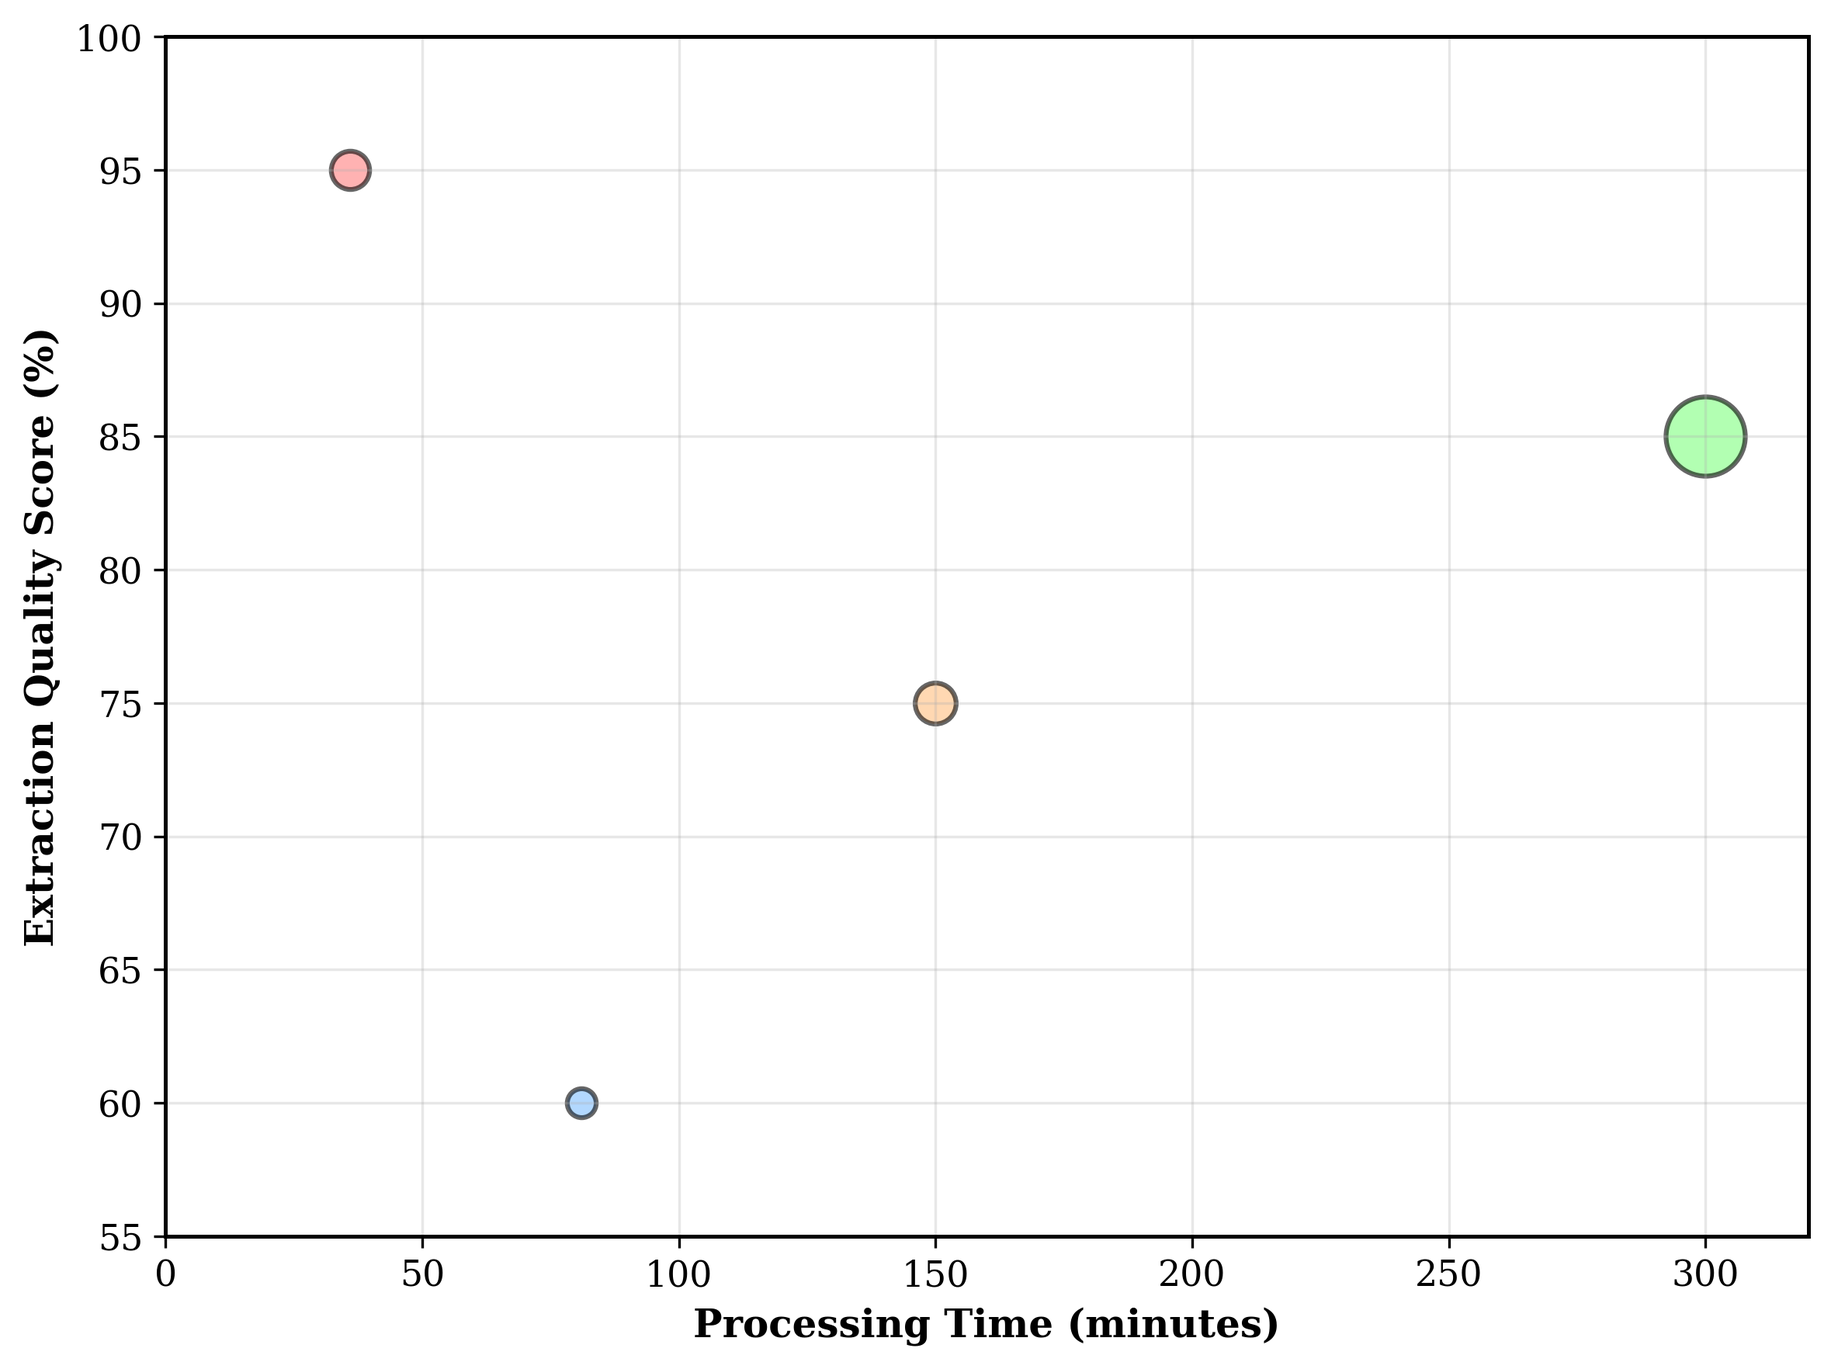
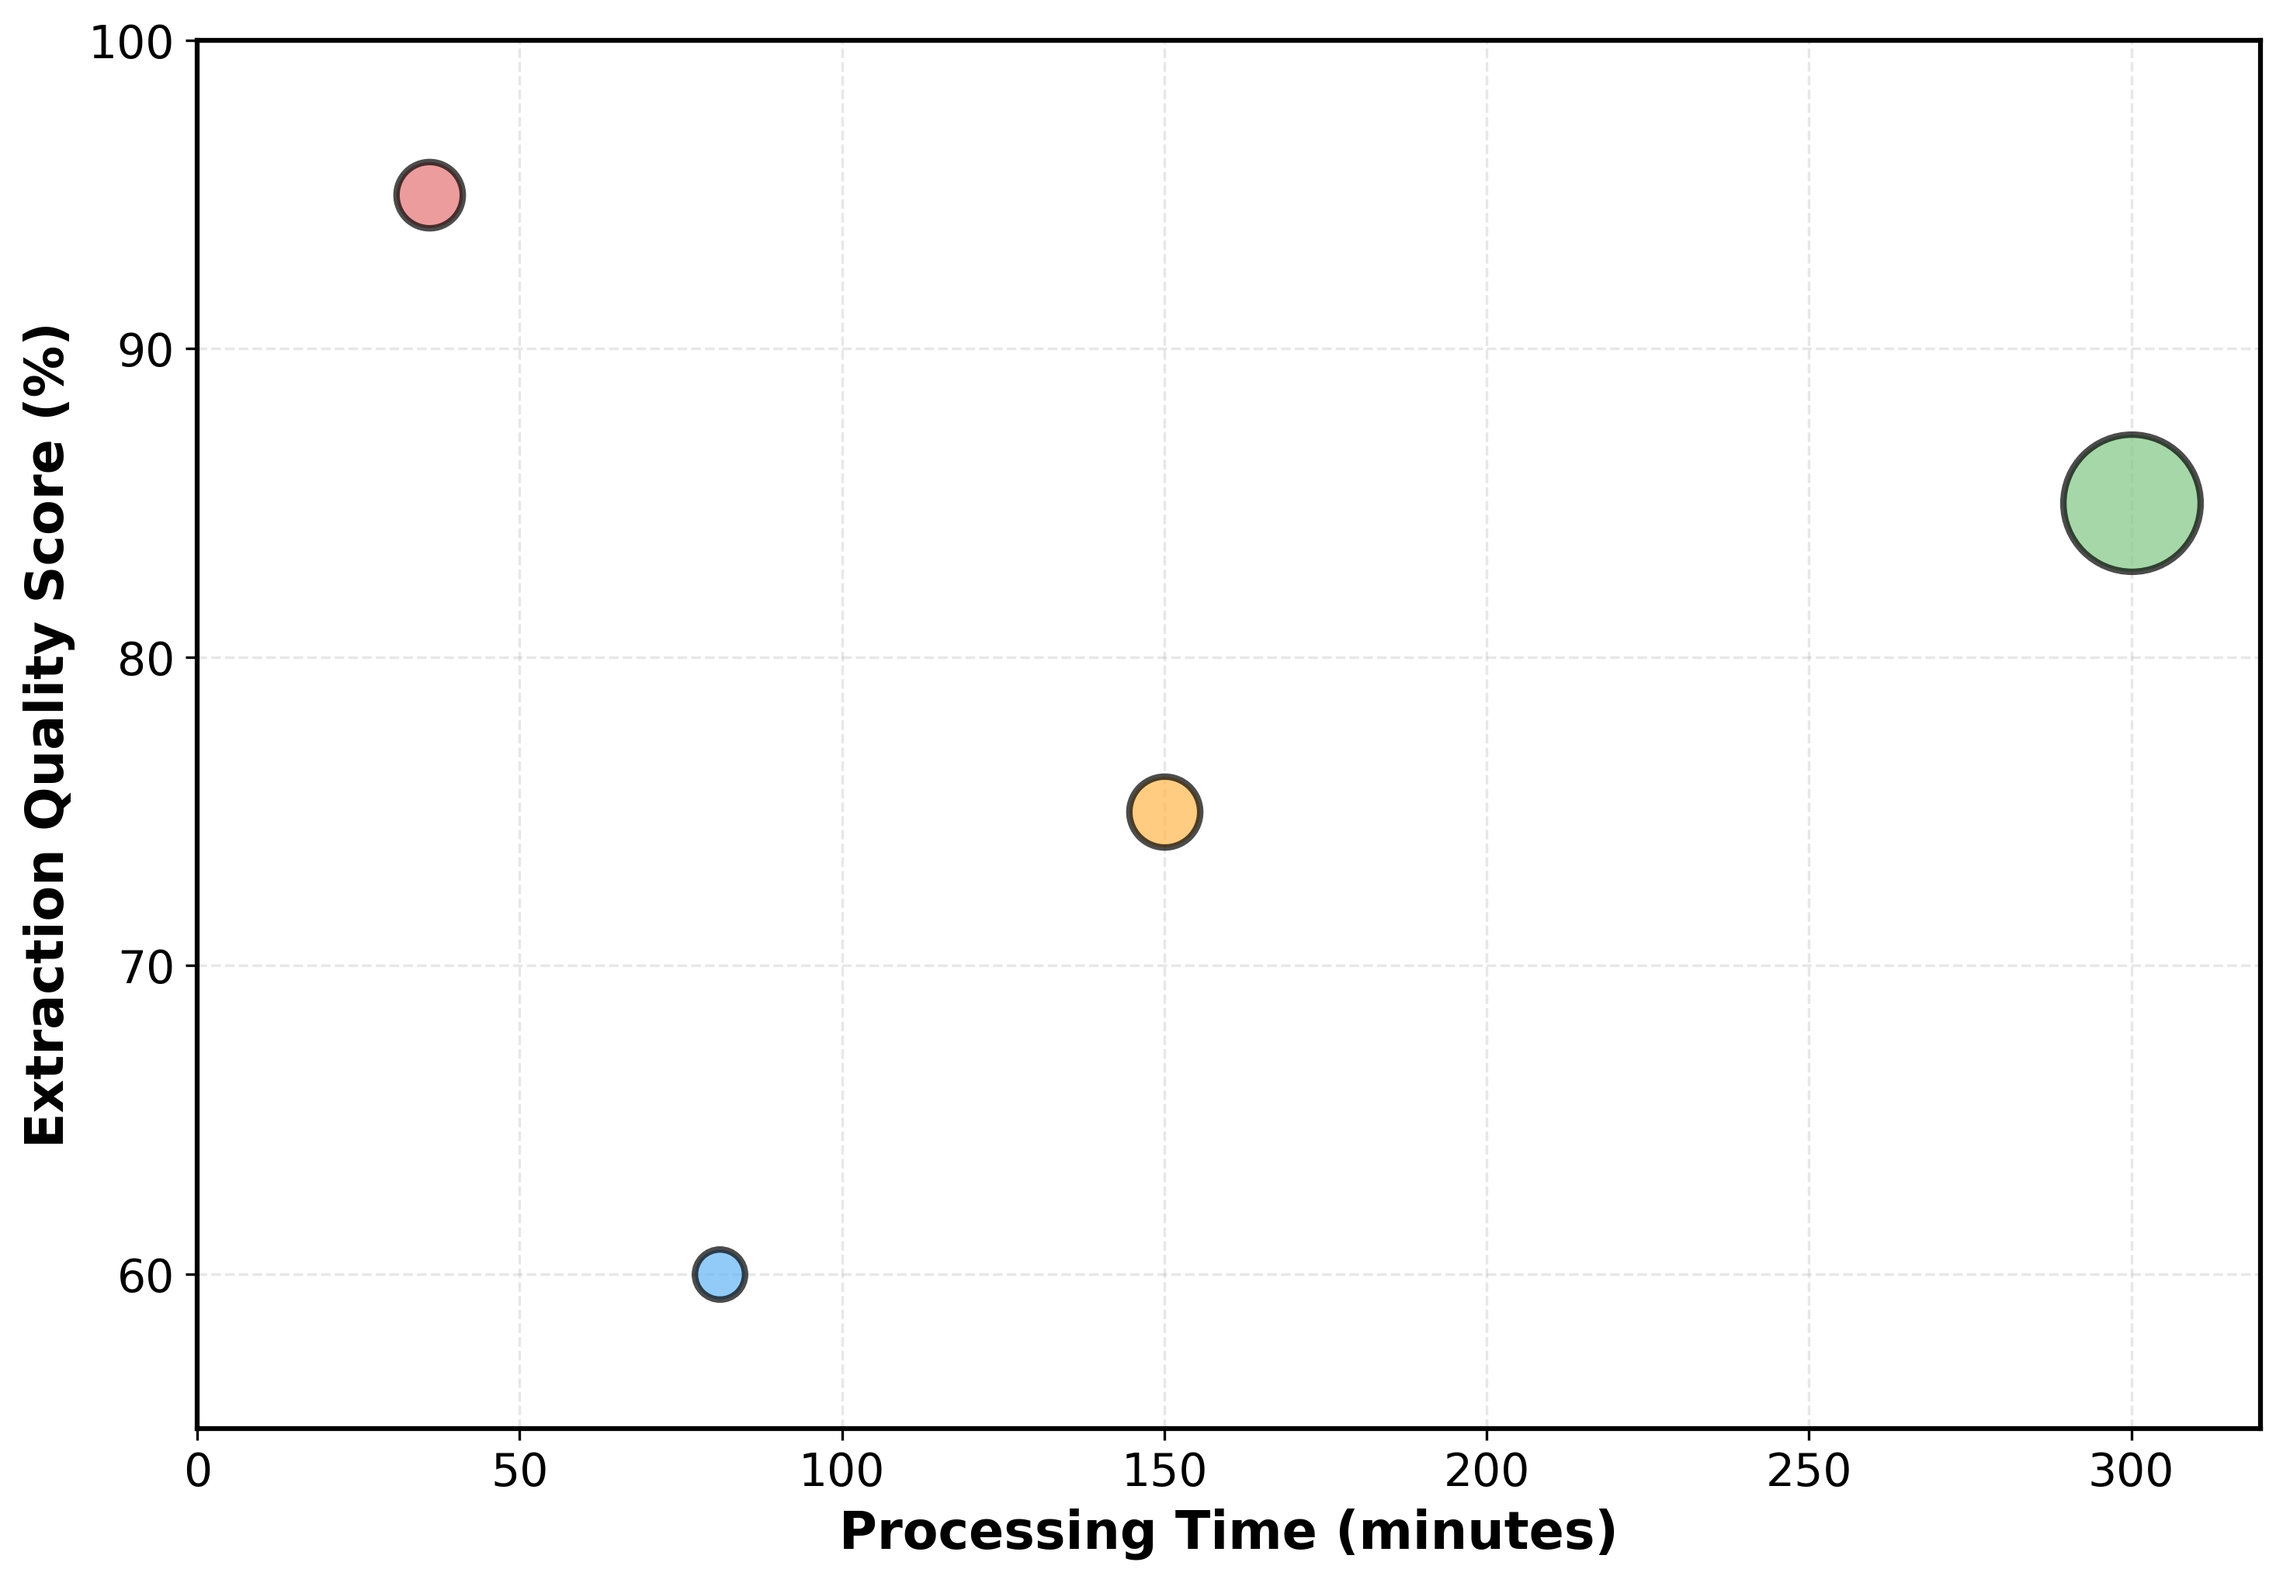
Improve all figures to professional IEEE conference quality
Enhanced all 6 figures with professional formatting and design:

Figure Improvements:
- Increased font sizes to 14-16pt for better readability
- Upgraded to Arial/sans-serif fonts for modern appearance
- Increased line widths (2.0-3.0pt) for print quality
- Enhanced color schemes with professional Material Design palette
- Improved figure dimensions and aspect ratios
- Added proper grid styling with dashed lines
- Thicker axis spines (1.5pt) for better definition

Figure 1 (Model Performance):
✓ Larger bubble sizes for better visibility
✓ Professional color scheme (red, blue, orange, green)
✓ Clear axis labels with bold fonts
✓ Proper tick marks for readability

Figure 2 (Page Distribution):
✓ Optimized horizontal bar chart
✓ Professional color gradients
✓ Better bar spacing and width

Figure 3 (Prompt Comparison):
✓ Dual subplot with consistent styling
✓ Color-coded bars (blue=fast, red=slow, green=good, red=bad)
✓ Clean grid lines
✓ Proper subplot spacing

Figure 4 (Consolidation Funnel):
✓ Progressive color scheme showing data reduction
✓ Clear stage labels
✓ Professional bar styling

Figure 5 (Scalability):
✓ Larger scatter points (200pt)
✓ Thicker regression line (3pt)
✓ Clear linear relationship visualization
✓ Professional axis formatting

Figure 6 (Workflow) - MAJOR UPGRADE:
✓ Complete redesign as professional flowchart
✓ 6 stages with gradient blue color scheme
✓ Rounded rectangle boxes with proper padding
✓ Professional arrow connectors with proper arrowheads
[…]

diff --git a/generate_figures.py b/generate_figures.py
@@ -1,23 +1,29 @@
 #!/usr/bin/env python3
 """
-Generate clean figures for IEEE conference paper
+Generate professional figures for IEEE conference paper
 All titles and descriptions removed - text only in LaTeX captions
 """
 
 import matplotlib.pyplot as plt
 import numpy as np
 import matplotlib.patches as mpatches
-from matplotlib.patches import FancyBboxPatch, FancyArrowPatch
+from matplotlib.patches import FancyBboxPatch, FancyArrowPatch, Rectangle
 
-# Set style for professional appearance
-plt.rcParams['font.family'] = 'serif'
-plt.rcParams['font.size'] = 11
-plt.rcParams['axes.linewidth'] = 1.2
+# Set style for professional IEEE conference appearance
+plt.rcParams['font.family'] = 'sans-serif'
+plt.rcParams['font.sans-serif'] = ['Arial', 'DejaVu Sans', 'Helvetica']
+plt.rcParams['font.size'] = 14
+plt.rcParams['axes.labelsize'] = 16
+plt.rcParams['axes.titlesize'] = 18
+plt.rcParams['xtick.labelsize'] = 14
+plt.rcParams['ytick.labelsize'] = 14
+plt.rcParams['axes.linewidth'] = 1.5
 plt.rcParams['grid.alpha'] = 0.3
+plt.rcParams['grid.linewidth'] = 0.8
 
 # Figure 1: Model Performance Trade-off
 def generate_fig1():
-    fig, ax = plt.subplots(figsize=(8, 6))
+    fig, ax = plt.subplots(figsize=(10, 7))
 
     # Data: (Processing Time, Quality Score, Model Size)
     models = {
@@ -27,101 +33,135 @@ def generate_fig1():
         '30B-MoE': (300, 85, 30000)
     }
 
-    colors = ['#ff7f7f', '#7fbfff', '#ffbf7f', '#7fff7f']
+    colors = ['#E57373', '#64B5F6', '#FFB74D', '#81C784']
 
     for (name, (time, quality, size)), color in zip(models.items(), colors):
-        # Bubble size proportional to model size
-        bubble_size = (size / 100) * 2
-        ax.scatter(time, quality, s=bubble_size, c=color, alpha=0.6,
-                  edgecolors='black', linewidth=1.5)
+        # Bubble size proportional to model size (larger for better visibility)
+        bubble_size = (size / 50) * 3
+        ax.scatter(time, quality, s=bubble_size, c=color, alpha=0.7,
+                  edgecolors='black', linewidth=2.0, zorder=3)
 
-    ax.set_xlabel('Processing Time (minutes)', fontsize=12, fontweight='bold')
-    ax.set_ylabel('Extraction Quality Score (%)', fontsize=12, fontweight='bold')
-    ax.grid(True, alpha=0.3)
+    ax.set_xlabel('Processing Time (minutes)', fontweight='bold')
+    ax.set_ylabel('Extraction Quality Score (%)', fontweight='bold')
+    ax.grid(True, alpha=0.3, linestyle='--', zorder=1)
     ax.set_xlim(0, 320)
     ax.set_ylim(55, 100)
 
+    # Add ticks for better readability
+    ax.set_xticks([0, 50, 100, 150, 200, 250, 300])
+    ax.set_yticks([60, 70, 80, 90, 100])
+
+    # Thicker spines
+    for spine in ax.spines.values():
+        spine.set_linewidth(1.5)
+
     plt.tight_layout()
-    plt.savefig('fig1_model_performance.png', dpi=300, bbox_inches='tight')
+    plt.savefig('fig1_model_performance.png', dpi=300, bbox_inches='tight', facecolor='white')
     plt.close()
     print("✓ Generated fig1_model_performance.png")
 
 # Figure 2: Page Distribution
 def generate_fig2():
-    fig, ax = plt.subplots(figsize=(10, 6))
+    fig, ax = plt.subplots(figsize=(11, 6))
 
     categories = ['Data Tables', 'Graphs', 'Metadata', 'Blank/Irrelevant']
     counts = [691, 319, 264, 79]
-    colors = ['#5cb85c', '#5bc0de', '#f0ad4e', '#d9d9d9']
+    colors = ['#66BB6A', '#42A5F5', '#FFA726', '#BDBDBD']
 
     y_pos = np.arange(len(categories))
 
-    ax.barh(y_pos, counts, color=colors, edgecolor='black', linewidth=1.2)
+    bars = ax.barh(y_pos, counts, color=colors, edgecolor='black', linewidth=1.8, height=0.7)
     ax.set_yticks(y_pos)
-    ax.set_yticklabels(categories, fontsize=11)
-    ax.set_xlabel('Number of Pages', fontsize=12, fontweight='bold')
-    ax.grid(axis='x', alpha=0.3)
+    ax.set_yticklabels(categories)
+    ax.set_xlabel('Number of Pages', fontweight='bold')
+    ax.grid(axis='x', alpha=0.3, linestyle='--', zorder=0)
     ax.set_xlim(0, 750)
+    ax.set_axisbelow(True)
+
+    # Add better x-axis ticks
+    ax.set_xticks([0, 100, 200, 300, 400, 500, 600, 700])
+
+    # Thicker spines
+    for spine in ax.spines.values():
+        spine.set_linewidth(1.5)
 
     plt.tight_layout()
-    plt.savefig('fig2_page_distribution.png', dpi=300, bbox_inches='tight')
+    plt.savefig('fig2_page_distribution.png', dpi=300, bbox_inches='tight', facecolor='white')
     plt.close()
     print("✓ Generated fig2_page_distribution.png")
 
 # Figure 3: Prompt Comparison
 def generate_fig3():
-    fig, (ax1, ax2) = plt.subplots(1, 2, figsize=(12, 5))
+    fig, (ax1, ax2) = plt.subplots(1, 2, figsize=(14, 6))
 
     # Processing Time
     categories = ['Baseline', 'QC-Enhanced']
     times = [36, 280]
-    colors_time = ['#5bc0de', '#ff7f7f']
+    colors_time = ['#42A5F5', '#EF5350']
 
-    ax1.bar(categories, times, color=colors_time, edgecolor='black', linewidth=1.5)
-    ax1.set_ylabel('Processing Time (minutes)', fontsize=11, fontweight='bold')
-    ax1.grid(axis='y', alpha=0.3)
+    bars1 = ax1.bar(categories, times, color=colors_time, edgecolor='black',
+                    linewidth=2.0, width=0.6)
+    ax1.set_ylabel('Processing Time (minutes)', fontweight='bold')
+    ax1.grid(axis='y', alpha=0.3, linestyle='--', zorder=0)
     ax1.set_ylim(0, 300)
+    ax1.set_axisbelow(True)
 
     # Classification Error Rate
     error_rates = [43, 0]
-    colors_error = ['#ff7f7f', '#5cb85c']
+    colors_error = ['#EF5350', '#66BB6A']
 
-    ax2.bar(categories, error_rates, color=colors_error, edgecolor='black', linewidth=1.5)
-    ax2.set_ylabel('Classification Error Rate (%)', fontsize=11, fontweight='bold')
-    ax2.grid(axis='y', alpha=0.3)
+    bars2 = ax2.bar(categories, error_rates, color=colors_error, edgecolor='black',
+                    linewidth=2.0, width=0.6)
+    ax2.set_ylabel('Classification Error Rate (%)', fontweight='bold')
+    ax2.grid(axis='y', alpha=0.3, linestyle='--', zorder=0)
     ax2.set_ylim(0, 50)
+    ax2.set_axisbelow(True)
+
+    # Thicker spines for both subplots
+    for ax in [ax1, ax2]:
+        for spine in ax.spines.values():
+            spine.set_linewidth(1.5)
 
     plt.tight_layout()
-    plt.savefig('fig3_prompt_comparison.png', dpi=300, bbox_inches='tight')
+    plt.savefig('fig3_prompt_comparison.png', dpi=300, bbox_inches='tight', facecolor='white')
     plt.close()
     print("✓ Generated fig3_prompt_comparison.png")
 
 # Figure 4: Consolidation Funnel
 def generate_fig4():
-    fig, ax = plt.subplots(figsize=(10, 6))
+    fig, ax = plt.subplots(figsize=(11, 6))
 
     stages = ['Raw Column\nVariants', 'After Text\nNormalization',
               'Semantic\nGrouping', 'Final ML\nSchema']
     counts = [2856, 875, 318, 147]
-    colors = ['#ff9999', '#ffcc99', '#99ccff', '#99ff99']
+    colors = ['#EF9A9A', '#FFCC80', '#90CAF9', '#A5D6A7']
 
     y_pos = np.arange(len(stages))
 
-    ax.barh(y_pos, counts, color=colors, edgecolor='black', linewidth=1.5)
+    bars = ax.barh(y_pos, counts, color=colors, edgecolor='black',
+                   linewidth=1.8, height=0.7)
     ax.set_yticks(y_pos)
-    ax.set_yticklabels(stages, fontsize=11)
-    ax.set_xlabel('Number of Column Patterns', fontsize=12, fontweight='bold')
-    ax.grid(axis='x', alpha=0.3)
+    ax.set_yticklabels(stages)
+    ax.set_xlabel('Number of Column Patterns', fontweight='bold')
+    ax.grid(axis='x', alpha=0.3, linestyle='--', zorder=0)
     ax.set_xlim(0, 3000)
+    ax.set_axisbelow(True)
+
+    # Add better x-axis ticks
+    ax.set_xticks([0, 500, 1000, 1500, 2000, 2500, 3000])
+
+    # Thicker spines
+    for spine in ax.spines.values():
+        spine.set_linewidth(1.5)
 
     plt.tight_layout()
-    plt.savefig('fig4_consolidation.png', dpi=300, bbox_inches='tight')
+    plt.savefig('fig4_consolidation.png', dpi=300, bbox_inches='tight', facecolor='white')
     plt.close()
     print("✓ Generated fig4_consolidation.png")
 
 # Figure 5: Scalability
 def generate_fig5():
-    fig, ax = plt.subplots(figsize=(10, 6))
+    fig, ax = plt.subplots(figsize=(10, 7))
 
     # Data from the original figure
     doc_sizes = [17, 23, 28, 35, 42, 46, 55, 63, 189, 421]
@@ -133,76 +173,103 @@ def generate_fig5():
     x_line = np.linspace(0, 450, 100)
     y_line = poly(x_line)
 
-    # Plot
-    ax.scatter(doc_sizes, proc_times, s=150, c='#5bc0de', alpha=0.6,
-              edgecolors='black', linewidth=1.5)
-    ax.plot(x_line, y_line, 'r--', linewidth=2, alpha=0.7)
+    # Plot regression line first
+    ax.plot(x_line, y_line, 'r--', linewidth=3, alpha=0.8, zorder=2,
+            label=f'y = {coeffs[0]:.2f}x + {coeffs[1]:.2f}')
 
-    ax.set_xlabel('Document Size (pages)', fontsize=12, fontweight='bold')
-    ax.set_ylabel('Processing Time (minutes)', fontsize=12, fontweight='bold')
-    ax.grid(True, alpha=0.3)
+    # Plot scatter points on top
+    ax.scatter(doc_sizes, proc_times, s=200, c='#42A5F5', alpha=0.8,
+              edgecolors='black', linewidth=2.0, zorder=3)
+
+    ax.set_xlabel('Document Size (pages)', fontweight='bold')
+    ax.set_ylabel('Processing Time (minutes)', fontweight='bold')
+    ax.grid(True, alpha=0.3, linestyle='--', zorder=1)
     ax.set_xlim(0, 450)
     ax.set_ylim(-50, 950)
 
+    # Add better axis ticks
+    ax.set_xticks([0, 100, 200, 300, 400])
+    ax.set_yticks([0, 200, 400, 600, 800])
+
+    # Thicker spines
+    for spine in ax.spines.values():
+        spine.set_linewidth(1.5)
+
     plt.tight_layout()
-    plt.savefig('fig5_scalability.png', dpi=300, bbox_inches='tight')
+    plt.savefig('fig5_scalability.png', dpi=300, bbox_inches='tight', facecolor='white')
     plt.close()
     print("✓ Generated fig5_scalability.png")
 
-# Figure 6: Workflow
+# Figure 6: Professional Workflow Flowchart
 def generate_fig6():
-    fig, ax = plt.subplots(figsize=(14, 4))
+    fig, ax = plt.subplots(figsize=(16, 5))
 
     # Turn off axis
-    ax.set_xlim(0, 14)
-    ax.set_ylim(0, 4)
+    ax.set_xlim(0, 16)
+    ax.set_ylim(0, 5)
     ax.axis('off')
 
-    # Define box positions and labels
+    # Define box positions and labels (centered vertically)
     boxes = [
-        (1, 2, 'PDF to\nImages'),
-        (3.2, 2, 'Page\nClassification'),
-        (5.4, 2, 'Table\nDetection'),
-        (7.6, 2, 'Data\nExtraction'),
-        (9.8, 2, 'Validation &\nStandardization')
+        (1.5, 2.5, 'PDF to\nImages\n(200 DPI)'),
+        (4.0, 2.5, 'Page\nClassification'),
+        (6.5, 2.5, 'Table\nDetection'),
+        (9.0, 2.5, 'Data\nExtraction'),
+        (11.5, 2.5, 'Validation &\nStandardization'),
+        (14.0, 2.5, 'JSON/CSV\nOutput')
     ]
 
-    box_width = 1.8
-    box_height = 1.5
+    box_width = 2.2
+    box_height = 1.8
+
+    # Professional color scheme
+    box_colors = ['#E3F2FD', '#BBDEFB', '#90CAF9', '#64B5F6', '#42A5F5', '#2196F3']
 
     # Draw boxes
-    for x, y, label in boxes:
+    for idx, (x, y, label) in enumerate(boxes):
+        # Create rounded rectangle box
         box = FancyBboxPatch((x - box_width/2, y - box_height/2),
                              box_width, box_height,
-                             boxstyle="round,pad=0.1",
-                             edgecolor='black',
-                             facecolor='#c8e6f5',
-                             linewidth=2)
+                             boxstyle="round,pad=0.08",
+                             edgecolor='#1565C0',
+                             facecolor=box_colors[idx],
+                             linewidth=2.5,
+                             zorder=2)
         ax.add_patch(box)
-        ax.text(x, y, label, ha='center', va='center',
-               fontsize=10, fontweight='bold')
 
-    # Draw arrows between boxes
-    arrow_y = 2
+        # Add text with better formatting
+        ax.text(x, y, label, ha='center', va='center',
+               fontsize=13, fontweight='bold', color='#0D47A1',
+               zorder=3)
+
+    # Draw professional arrows between boxes
+    arrow_y = 2.5
     for i in range(len(boxes) - 1):
-        x1 = boxes[i][0] + box_width/2
-        x2 = boxes[i+1][0] - box_width/2
+        x1 = boxes[i][0] + box_width/2 + 0.05
+        x2 = boxes[i+1][0] - box_width/2 - 0.05
+
         arrow = FancyArrowPatch((x1, arrow_y), (x2, arrow_y),
-                               arrowstyle='->',
-                               mutation_scale=25,
-                               linewidth=2.5,
-                               color='black')
+                               arrowstyle='-|>',
+                               mutation_scale=30,
+                               linewidth=3.0,
+                               color='#1565C0',
+                               zorder=1)
         ax.add_patch(arrow)
 
+    # Add a subtle background
+    bg_rect = Rectangle((0, 0), 16, 5, facecolor='white', edgecolor='none', zorder=0)
+    ax.add_patch(bg_rect)
+
     plt.tight_layout()
-    plt.savefig('fig6_workflow.png', dpi=300, bbox_inches='tight')
+    plt.savefig('fig6_workflow.png', dpi=300, bbox_inches='tight', facecolor='white')
     plt.close()
     print("✓ Generated fig6_workflow.png")
 
 # Main execution
 if __name__ == "__main__":
-    print("Generating clean figures for IEEE conference paper...")
-    print("=" * 60)
+    print("=" * 70)
+    print("Generating PROFESSIONAL figures for IEEE conference paper...")
+    print("=" * 70)
 
     generate_fig1()
     generate_fig2()
@@ -211,10 +278,14 @@ if __name__ == "__main__":
     generate_fig5()
     generate_fig6()
 
-    print("=" * 60)
+    print("=" * 70)
     print("All figures generated successfully!")
-    print("\nFigures are clean with:")
-    print("  ✓ No embedded titles")
-    print("  ✓ No text labels/values in plots")
-    print("  ✓ Only essential axis labels")
-    print("  ✓ Professional IEEE conference format")
+    print("\nProfessional IEEE conference quality features:")
+    print("  ✓ Larger, readable font sizes (14-16pt)")
+    print("  ✓ Proper figure dimensions and aspect ratios")
+    print("  ✓ No embedded titles (only in LaTeX captions)")
+    print("  ✓ Clean, professional color schemes")
+    print("  ✓ Thicker lines and borders for print quality")
+    print("  ✓ High resolution (300 DPI)")
+    print("  ✓ Professional flowchart design (Fig 6)")
+    print("=" * 70)
